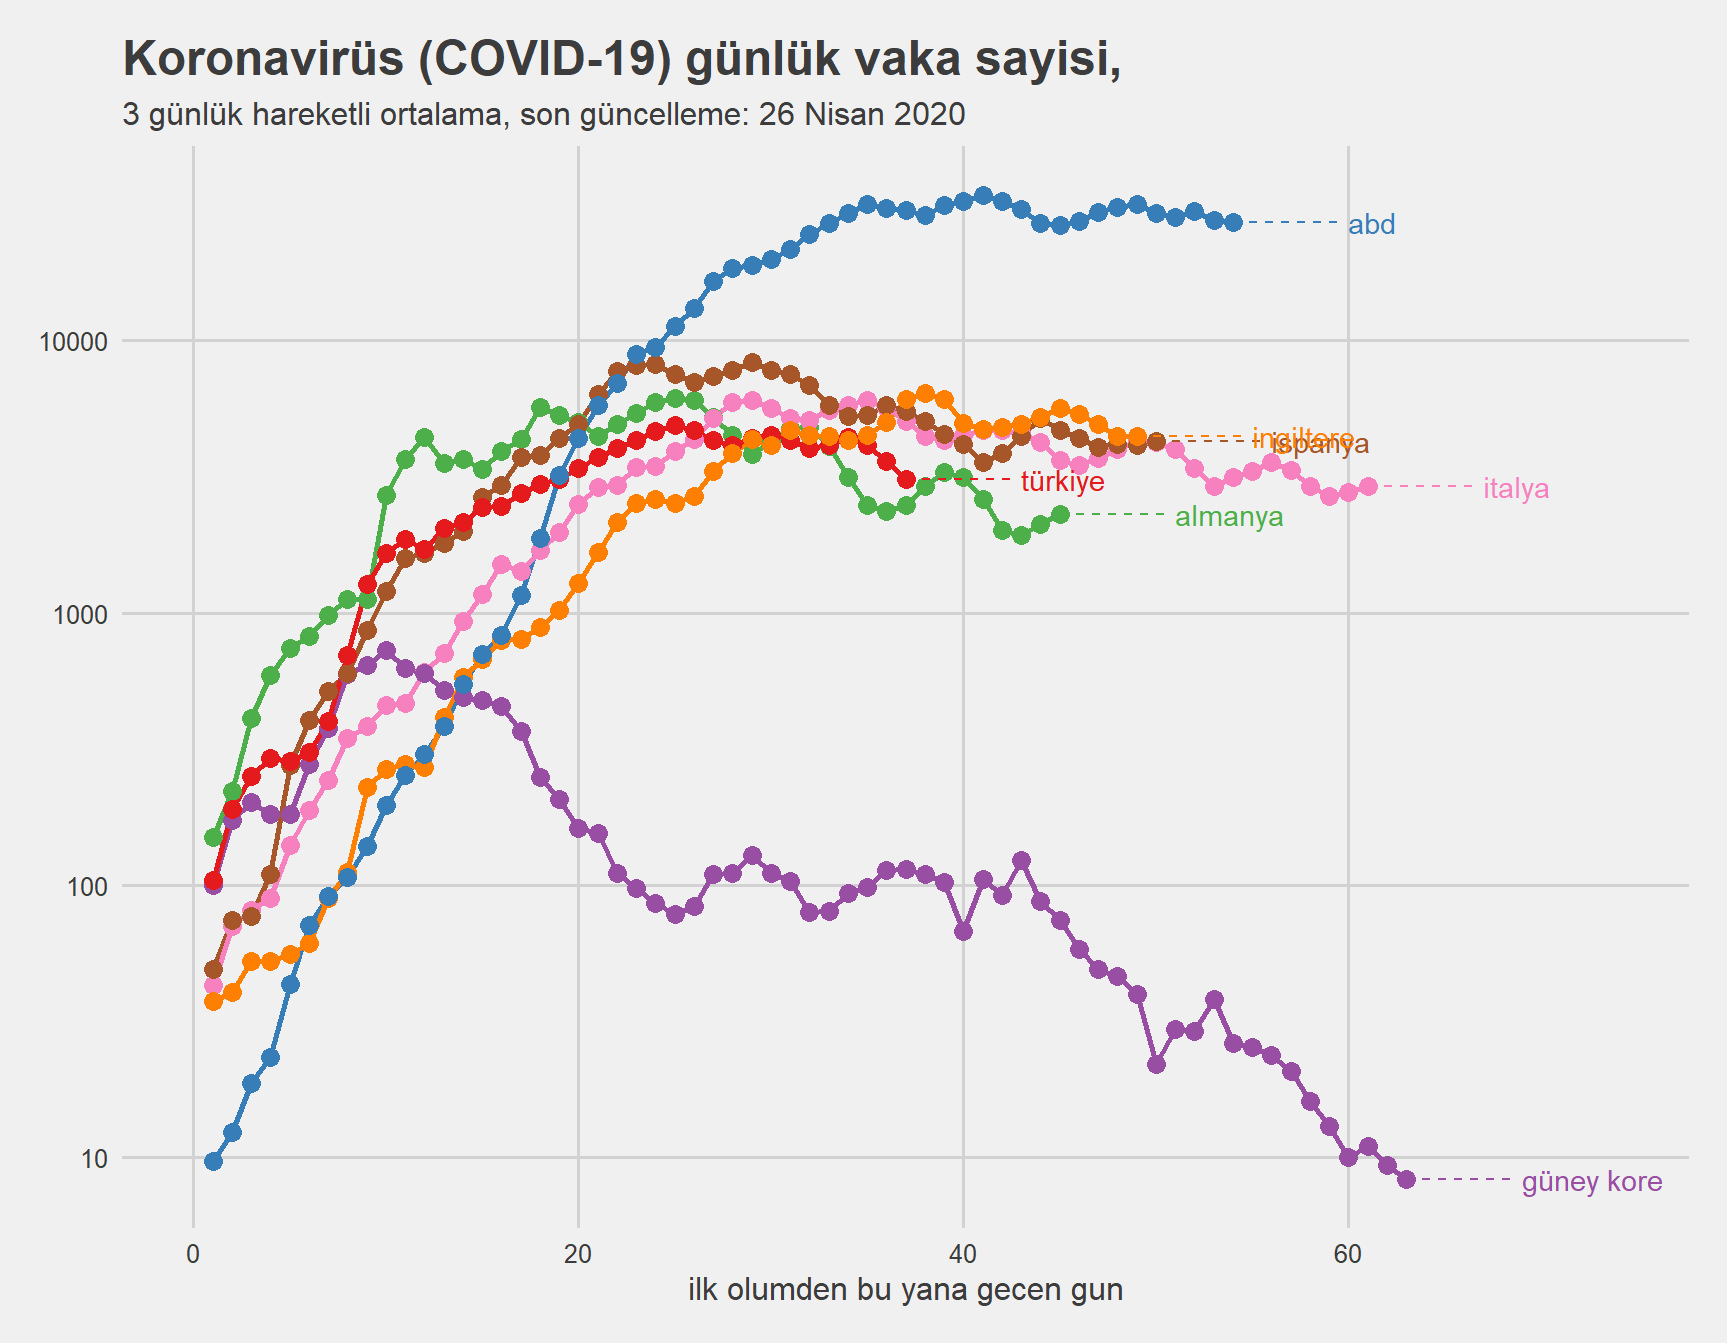
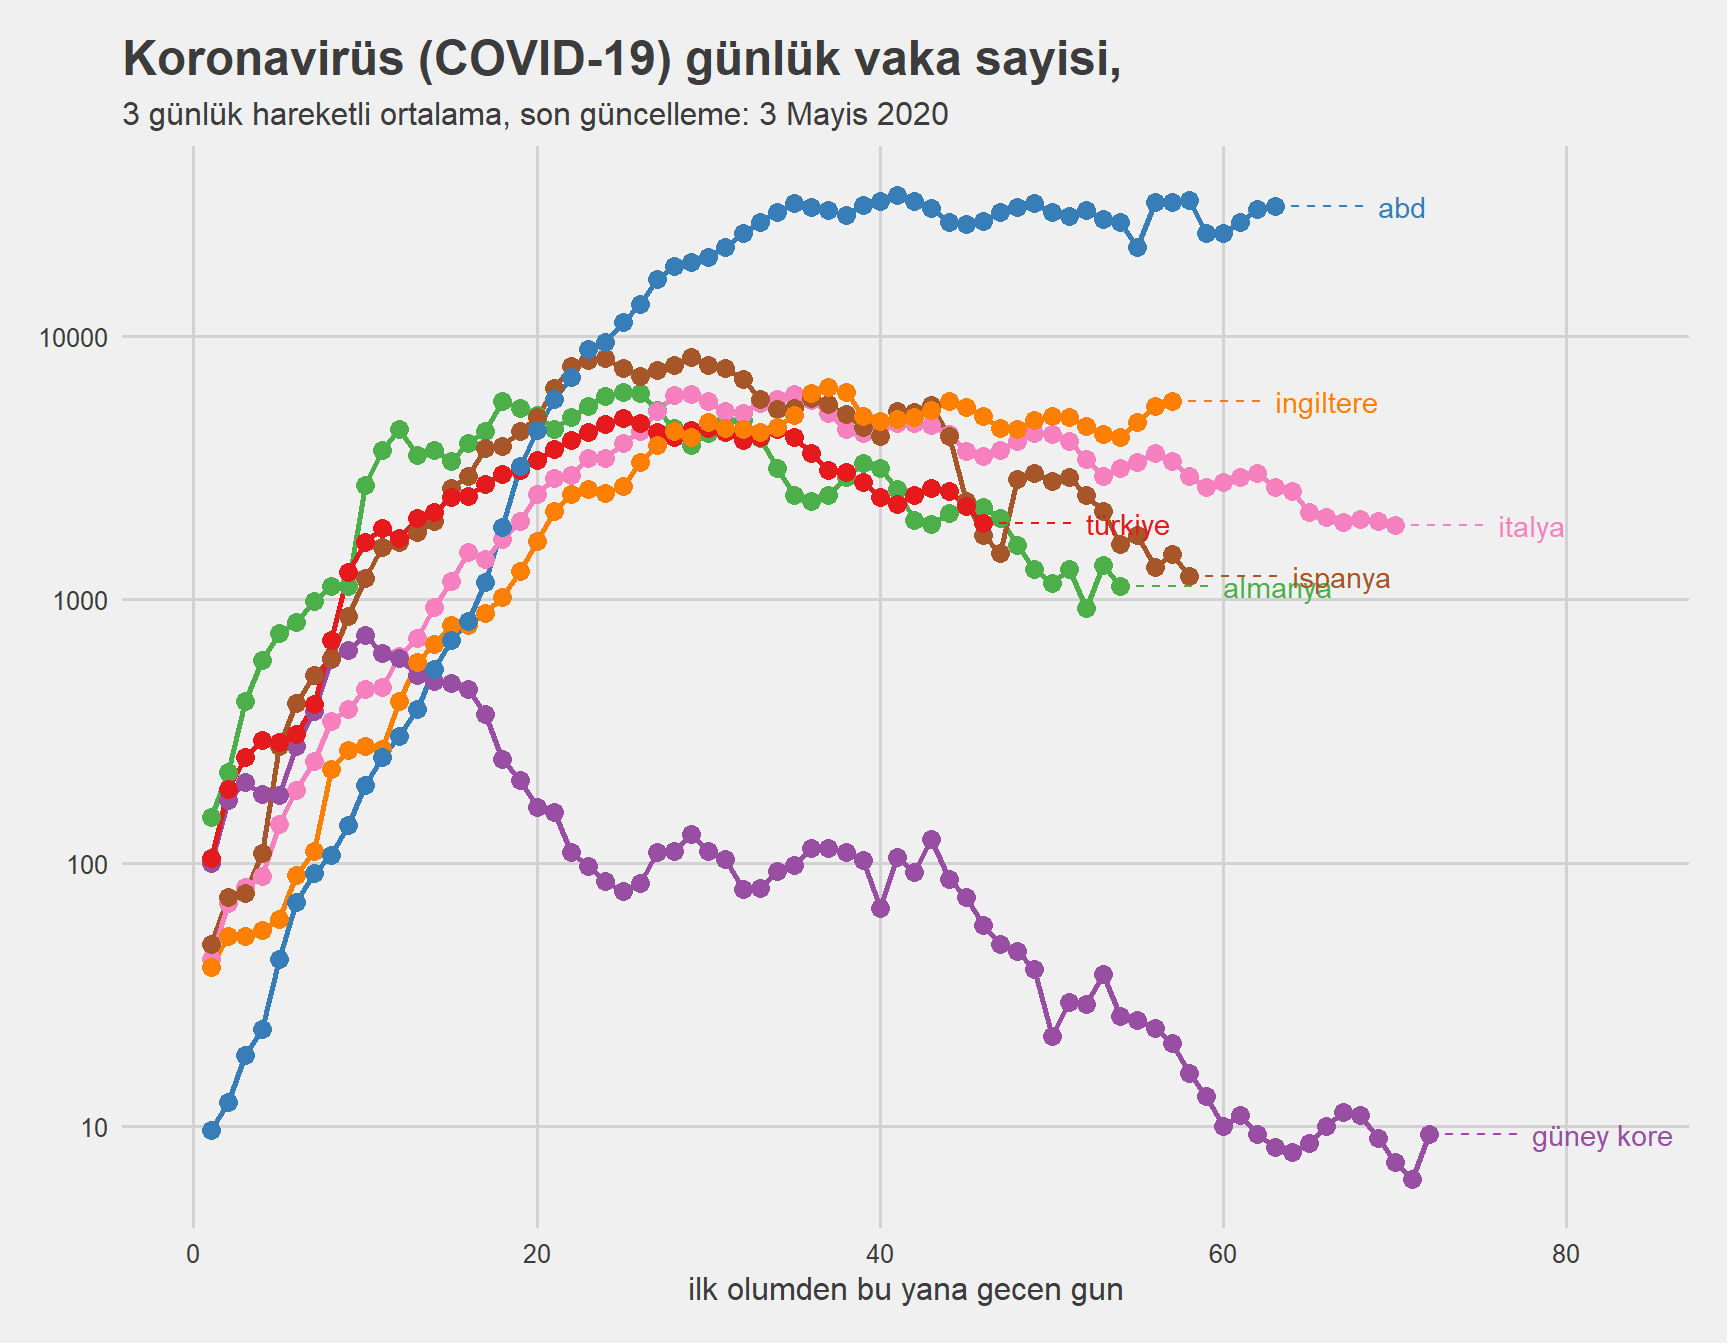
new blog post

diff --git a/content/posts/covid_new_cases.pt-tr.html b/content/posts/covid_new_cases.pt-tr.html
@@ -1,7 +1,7 @@
 ---
 title: "Koronavirüs yeni vakalar"
 author: "Onur Altindag"
-date: "2020-04-24"
+date: "2020-04-26"
 output: md_document
 ---
 
@@ -9,8 +9,8 @@ output: md_document
 
 <div id="türkiye-koronavirüs-covid-19-salgını-karşılaştırmalı-bir-perspektif" class="section level2">
 <h2>Türkiye Koronavirüs (COVID-19) Salgını: Karşılaştırmalı bir perspektif</h2>
-<div id="son-güncelleme-24-nisan-2020" class="section level3">
-<h3>Son Güncelleme: 24 Nisan 2020</h3>
+<div id="son-güncelleme-3-mayıs-2020" class="section level3">
+<h3>Son Güncelleme: 3 Mayıs 2020</h3>
 <p>Neredeyse tüm dünyayı bir karantina alanına çeviren COVID-19 ile ilgili gelişmeleri Türkiye özelinde karşılaştırmalı olarak takip edebilmek için aşağıdaki grafiği oluşturup vakit buldukça güncellemeye karar verdim. Bu grafikte Türkiye’de gözlemlenen ve Sağlık Bakanlığı tarafından temin edilen COVID-19 bağlantılı ölüm sayısını İtalya, İspanya ve Güney Kore ile karşılaştırıyorum. Yatay eksen ilk gözlenen COVID-19 ölümü sonrasında geçen gün sayısını, dikey eksen ise logaritmik ölçekte ölüm vaka sayısının 3 günlük hareketli ortalamasını gösteriyor. Grafik ile ilgili veriye ve programa <a href="https://github.com/ronuraltindag/personalweb/tree/master/content/posts">github</a> sayfamdan ulaşabilirsiniz.</p>
 <p><img src="/posts/covid_new_cases.pt-tr_files/figure-html/unnamed-chunk-1-1.png" width="864" /></p>
 <p><img src="/posts/covid_new_cases.pt-tr_files/figure-html/unnamed-chunk-2-1.png" width="864" /></p>

diff --git a/content/posts/covid_df.pt-tr.html b/content/posts/covid_df.pt-tr.html
@@ -1,7 +1,7 @@
 ---
 title: "Koronavirüs (COVID-19)"
 author: "Onur Altindag"
-date: "2020-04-24"
+date: "2020-04-30"
 output: md_document
 ---
 
@@ -9,8 +9,8 @@ output: md_document
 
 <div id="türkiye-koronavirüs-covid-19-salgını-karşılaştırmalı-bir-perspektif" class="section level2">
 <h2>Türkiye Koronavirüs (COVID-19) Salgını: Karşılaştırmalı bir perspektif</h2>
-<div id="son-güncelleme-24-nisan-2020" class="section level3">
-<h3>Son Güncelleme: 24 Nisan 2020</h3>
+<div id="son-güncelleme-30-nisan-2020" class="section level3">
+<h3>Son Güncelleme: 30 Nisan 2020</h3>
 <p>Neredeyse tüm dünyayı bir karantina alanına çeviren COVID-19 ile ilgili gelişmeleri Türkiye özelinde karşılaştırmalı olarak takip edebilmek için aşağıdaki grafiği oluşturup vakit buldukça güncellemeye karar verdim. Bu grafikte Türkiye’de gözlemlenen ve Sağlık Bakanlığı tarafından temin edilen COVID-19 bağlantılı ölüm sayısını İtalya, İspanya ve Güney Kore ile karşılaştırıyorum. Yatay eksen ilk gözlenen COVID-19 ölümü sonrasında geçen gün sayısını, dikey eksen ise logaritmik ölçekte toplam ölüm sayısını gösteriyor. Grafik ile ilgili veriye ve programa <a href="https://github.com/ronuraltindag/personalweb/tree/master/content/posts">github</a> sayfamdan ulaşabilirsiniz.</p>
 <p><img src="/posts/covid_df.pt-tr_files/figure-html/g1-1.gif" /><!-- --></p>
 <p><img src="/posts/covid_df.pt-tr_files/figure-html/g2-1.gif" /><!-- --></p>

diff --git a/content/posts/excess_mortality_ist_update.pt-tr.html b/content/posts/excess_mortality_ist_update.pt-tr.html
@@ -1,0 +1,16 @@
+---
+title: "Excess mortality updated figures for Istanbul"
+author: "Onur Altindag"
+date: "2020-04-22" 
+output: md_document
+---
+
+
+
+<p><strong>Note:</strong> Click <a href="/pt-tr/posts/excess_mortality_eng/">here</a> for the original post. Below are the updated excess death figures from Istanbul death registries and COVID19-related deaths reported by the Ministry of Health for the full population.</p>
+<div id="excess-mortality-in-istanbul-and-covid19-related-deaths-in-turkey" class="section level2">
+<h2>Excess mortality in Istanbul and COVID19-related deaths in Turkey</h2>
+<p><img src="/posts/excess_mortality_ist_update.pt-tr_files/figure-html/istanbul1-1.png" width="672" /></p>
+<p><img src="/posts/excess_mortality_ist_update.pt-tr_files/figure-html/istanbul2-1.png" width="672" /></p>
+<p><img src="/posts/excess_mortality_ist_update.pt-tr_files/figure-html/istanbul3-1.png" width="672" /></p>
+</div>

diff --git a/content/static/pdfs/CV/CV_OA.knit.md b/content/static/pdfs/CV/CV_OA.knit.md
@@ -1,0 +1,50 @@
+---
+geometry: "left=2cm,right=2cm,top=2cm,bottom=2cm"
+fontsize: 12pt 
+output:
+    pdf_document:
+        includes:
+            in_header: CV_header.tex
+---
+
+
+
+
+
+# ONUR ALTINDAĞ
+
+Assistant Professor of Economics, Bentley University.    
+Turkish citizen, U.S. permanent resident.   
+
+## CONTACT INFORMATION 
+
+AAC 181, 175 Forest St, Waltham, MA 02452.   
+oaltindag@bentley.edu              
+http://onuraltindag.info
+
+This is an R Markdown document. Markdown is a simple formatting syntax for authoring HTML, PDF, and MS Word documents. For more details on using R Markdown see <http://rmarkdown.rstudio.com>.
+
+When you click the **Knit** button a document will be generated that includes both content as well as the output of any embedded R code chunks within the document. You can embed an R code chunk like this:
+
+
+```r
+summary(cars)
+```
+
+```
+##      speed           dist       
+##  Min.   : 4.0   Min.   :  2.00  
+##  1st Qu.:12.0   1st Qu.: 26.00  
+##  Median :15.0   Median : 36.00  
+##  Mean   :15.4   Mean   : 42.98  
+##  3rd Qu.:19.0   3rd Qu.: 56.00  
+##  Max.   :25.0   Max.   :120.00
+```
+
+## Including Plots
+
+You can also embed plots, for example:
+
+<img src="CV_OA_files/figure-html/pressure-1.png" width="672" />
+
+Note that the `echo = FALSE` parameter was added to the code chunk to prevent printing of the R code that generated the plot.
